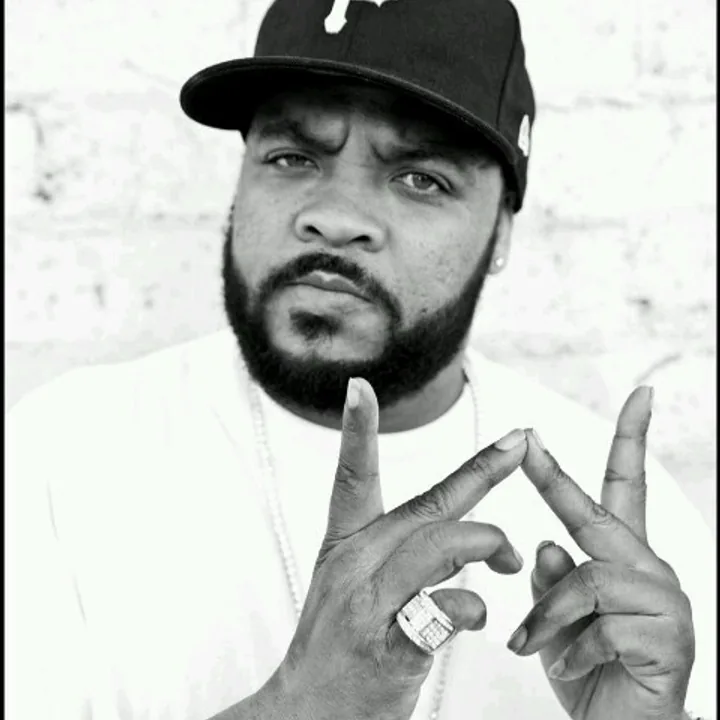
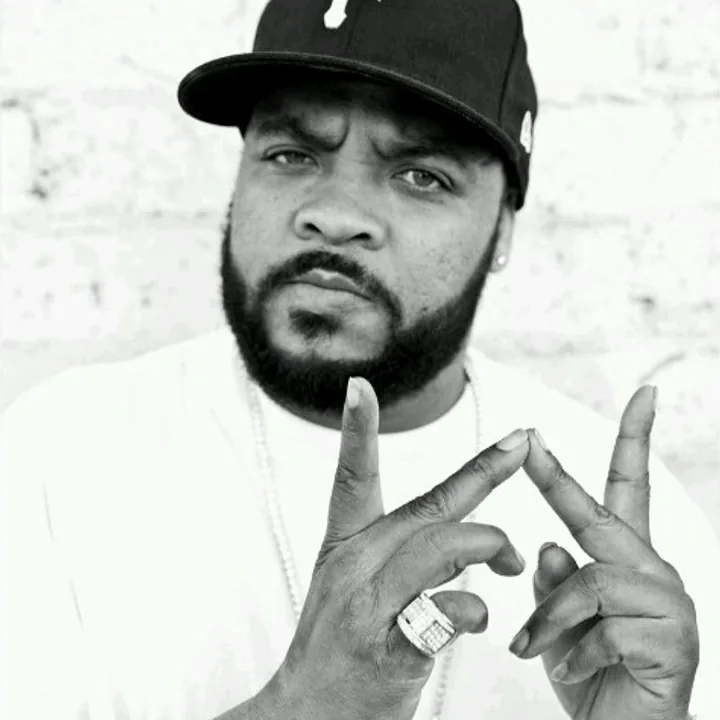
Crop Kokane portrait borders
Removes the original black border by cropping three pixels from each edge and regenerates the square and vertical portrait assets.

diff --git a/scripts/sync-canonical-composers.ts b/scripts/sync-canonical-composers.ts
@@ -82,7 +82,7 @@ const profiles: ProfileSource[] = [
   { slug: "tcheep", name: "Tcheep", kind: "person", localImageFile: "tcheep.jpg", cardImageTransform: { extract: { left: 160, top: 120, width: 540, height: 540 }, position: "center" }, detailImageTransform: { extract: { left: 160, top: 120, width: 540, height: 540 } }, aliases: ["Tcheep"], rightHolderIds: ["afed957795abda41"] },
   { slug: "chicho-cortez", name: "Chicho Cortez", kind: "person", localImageFile: "chicho_cortez.png", cardImageTransform: { position: "center" }, aliases: ["Chicho Cortez"], rightHolderIds: ["c8119ac64f97a450"] },
   { slug: "bonetrips", name: "Bonetrips", kind: "person", aliases: ["Bonetrips"], rightHolderIds: ["5e18d5f74721f750"] },
-  { slug: "kokane", name: "Kokane", kind: "person", localImageFile: "kokane.jpg", cardImageTransform: { position: "center" }, aliases: ["Kokane"] },
+  { slug: "kokane", name: "Kokane", kind: "person", localImageFile: "kokane.jpg", cardImageTransform: { extract: { left: 3, top: 3, width: 474, height: 714 }, position: "center" }, detailImageTransform: { extract: { left: 3, top: 3, width: 474, height: 714 } }, aliases: ["Kokane"] },
   { slug: "coeur", name: "Cœur", kind: "person", localImageFile: "coeur.jpg", aliases: ["Charlotte Duran"], rightHolderIds: ["6719063c46c082fa"] },
   { slug: "arom", name: "Arom", kind: "person", localImageFile: "arom.jpg", aliases: ["Amaury Messelier", "AROM", "Arom"], rightHolderIds: ["a31fdb8e79777800"], legacySlugs: ["amaury-messelier"] },
   { slug: "minimatic", name: "Minimatic", kind: "person", localImageFile: "minimatic.jpg", aliases: ["Minimatic"], rightHolderIds: ["9a8ac0f443626409"] },
